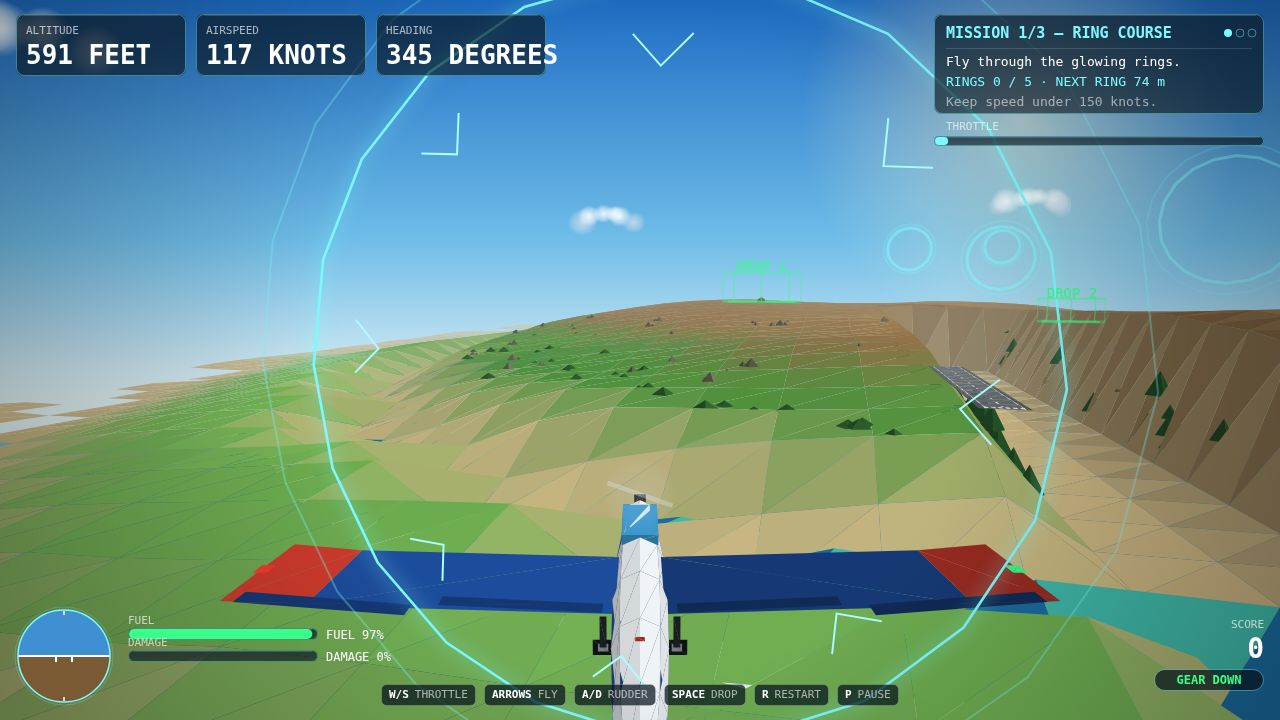
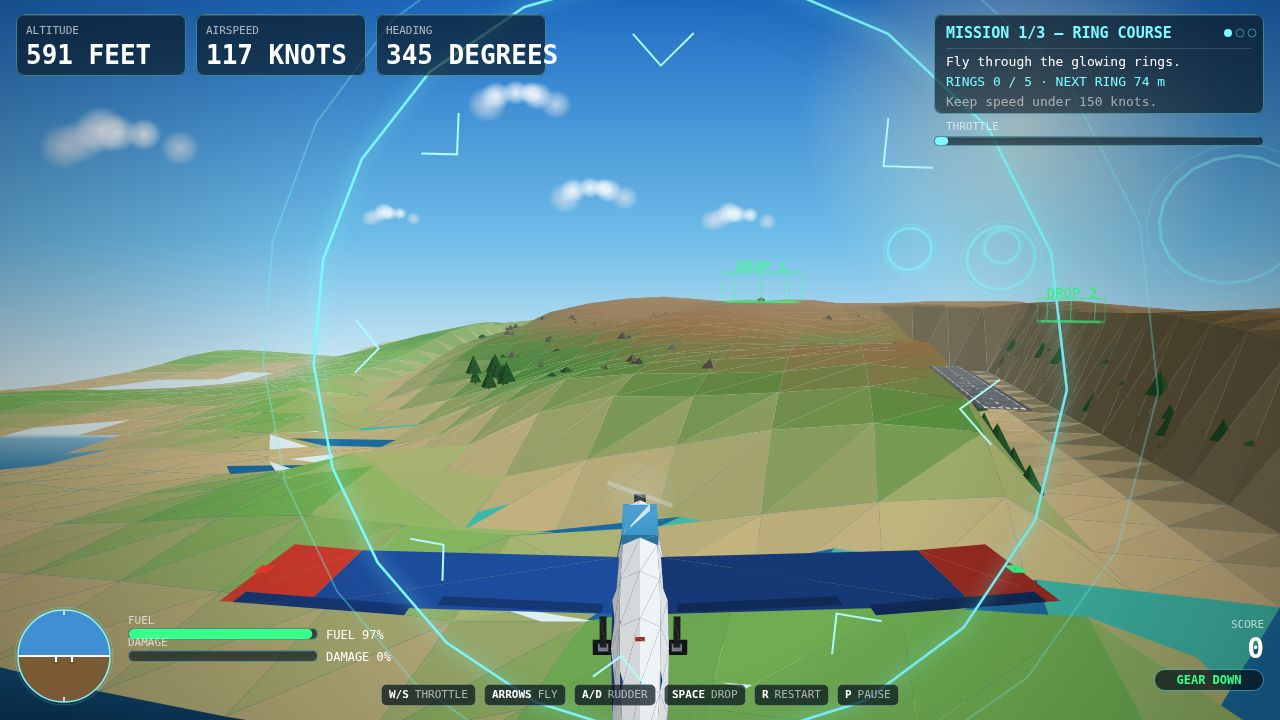
Terrain shape round 4: rolling multi-octave hills, undulating valley rims, slope/elevation shading, ring/drop safe-zone masking

diff --git a/game/src/terrain.js b/game/src/terrain.js
@@ -125,6 +125,43 @@ export function heightAt(x, y, seed) {
     const v = lerp(lerp(v00, v10, sx), lerp(v01, v11, sx), sy);
     h += (v - 0.5) * 2 * amps[o];
   }
+  // Multi-octave rolling waves (long wavelengths the 44x44 grid can
+  // represent) + one extra long value-noise octave, masked off the ring
+  // flight path and the drop pads so the autopilot's clearance is
+  // unchanged. Inserted before the beach fade and the runway-corridor
+  // flattening below, so both still zero the waves in the sea/corridor.
+  let wave = 0;
+  const dirs = [[0.83, 0.55], [-0.42, 0.91], [0.97, -0.24]];
+  const wls = [980, 640, 430];
+  const wAmps = [16, 11, 7];
+  for (let w = 0; w < 3; w++) {
+    const dx = dirs[w][0], dy = dirs[w][1];
+    const phase = hash2(w * 7 + 3, 5, seed) * Math.PI * 2;
+    wave += Math.sin(((x * dx + y * dy) / wls[w]) * 2 * Math.PI + phase) * wAmps[w];
+  }
+  {
+    const cell = 520;
+    const ix = Math.floor(x / cell), iy = Math.floor(y / cell);
+    const fx = x / cell - ix, fy = y / cell - iy;
+    const sx = fx * fx * (3 - 2 * fx), sy = fy * fy * (3 - 2 * fy);
+    const v00 = hash2(ix, iy, seed + 91);
+    const v10 = hash2(ix + 1, iy, seed + 91);
+    const v01 = hash2(ix, iy + 1, seed + 91);
+    const v11 = hash2(ix + 1, iy + 1, seed + 91);
+    const v = lerp(lerp(v00, v10, sx), lerp(v01, v11, sx), sy);
+    wave += (v - 0.5) * 2 * 10;
+  }
+  let mask = 1;
+  if (y >= -1400 && y <= 1200) {
+    const t = (y + 1400) / 2600;
+    const xLine = -300 + 600 * t + Math.sin(2 * Math.PI * t) * 220;
+    mask *= smoothstep(150, 300, Math.abs(x - xLine));
+  }
+  for (let i = 0; i < HUT_SPOTS.length; i++) {
+    const spot = HUT_SPOTS[i];
+    mask *= smoothstep(120, 220, Math.hypot(x - spot.x, y - spot.y));
+  }
+  h += wave * mask;
   if (r > 950 && r < 1150) {
     const t = smoothstep(950, 1150, r);
     h = lerp(h, 0, t);
@@ -149,7 +186,7 @@ export function heightAt(x, y, seed) {
   return clamp(h, -12, 220);
 }
 
-function terrainColorSmooth(h, r, x, y, seed) {
+function terrainColorSmooth(h, r, x, y, seed, slope) {
   let col = "#d8c08a";
   const w1 = smoothstep(3, 16, h);
   col = hexLerp(col, "#79b657", w1);
@@ -163,6 +200,13 @@ function terrainColorSmooth(h, r, x, y, seed) {
   const beachOut = 1 - smoothstep(1100, 1150, r);
   const beachW = beachIn * beachOut * 0.85;
   if (beachW > 0) col = hexLerp(col, "#d8c08a", beachW);
+  // Slope/elevation shading: steep ground goes darker mossy rock, high
+  // steep peaks go pale ridge rock. slope = 1 - normalZ (0 = flat).
+  const steep = smoothstep(0.14, 0.30, slope);
+  const beachOff = 1 - smoothstep(1000, 1150, r);
+  col = hexLerp(col, "#5d5838", steep * beachOff * 0.7);
+  const peak = smoothstep(160, 205, h) * (0.4 + 0.6 * smoothstep(0.10, 0.25, slope));
+  col = hexLerp(col, "#8d867a", peak * 0.6);
   const cs = 260;
   const gx = x / cs, gy = y / cs;
   const ix = Math.floor(gx), iy = Math.floor(gy);
@@ -238,7 +282,8 @@ export function buildIsland(seed) {
       const k = (j * (N + 1) + i) * 3;
       const x = min + i * step, y = min + j * step;
       const h = heights[j * (N + 1) + i];
-      const rgb = hexToRgb(terrainColorSmooth(h, Math.hypot(x, y), x, y, seed));
+      const slope = 1 - normals[k + 2];
+      const rgb = hexToRgb(terrainColorSmooth(h, Math.hypot(x, y), x, y, seed, slope));
       vcolors[k] = rgb[0] / 255;
       vcolors[k + 1] = rgb[1] / 255;
       vcolors[k + 2] = rgb[2] / 255;
